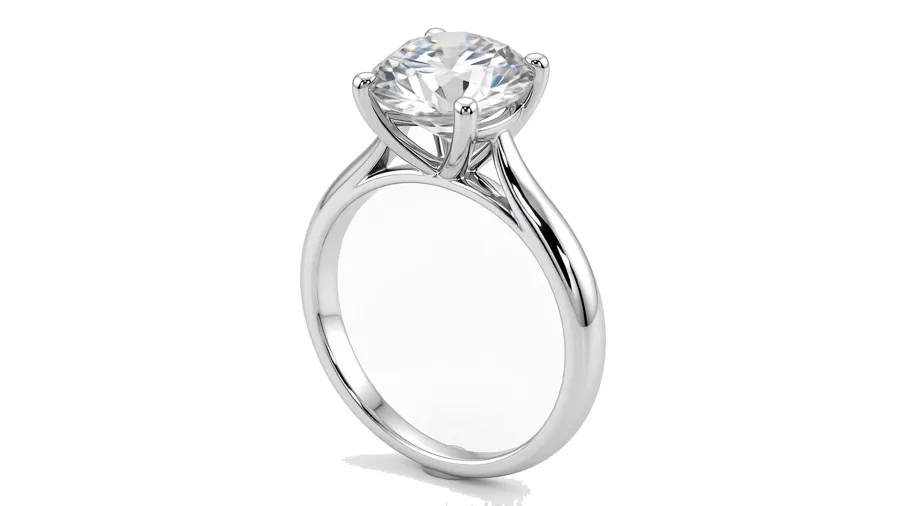
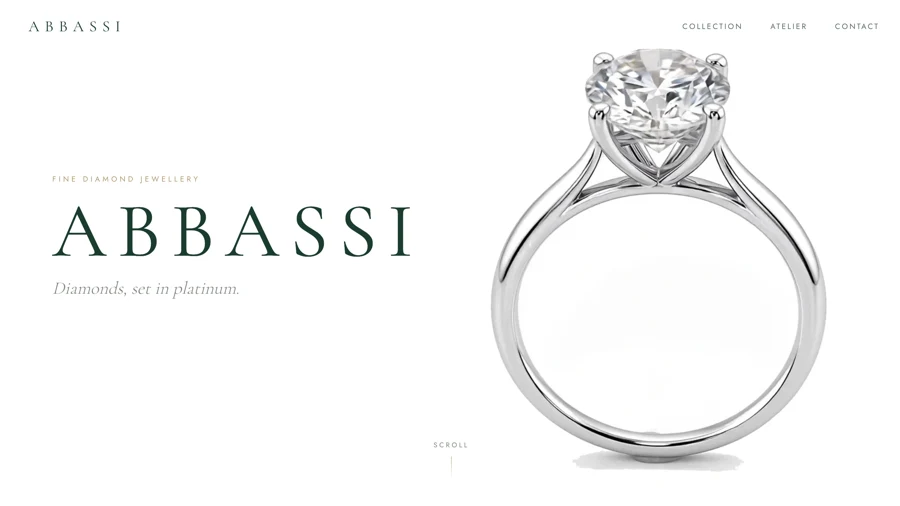
Add ABD demo + portfolio page; clickable cards; remove language switcher

diff --git a/public/portfolio/abd/index.html b/public/portfolio/abd/index.html
@@ -197,7 +197,7 @@ footer .fn{align-self:flex-end;color:#6a6a70;font-size:12px;letter-spacing:.1em}
 </section>
 
 <footer>
-  <div class="fb" style="transform:none"><img src="assets/abd_q2.png" alt="ABD Q2" style="height:210px;width:auto;display:block"></div>
+  <div class="fb" style="transform:none"><img src="assets/abd_q2_mark.png" alt="THR·Q2·M" style="height:130px;width:auto;display:block"></div>
   <div class="fes">«LAS MALAS VIBRAS <b>NO VAN</b> CON MI OUTFIT.»<br><span style="font-family:Archivo;font-style:normal;font-weight:700;font-size:12px;letter-spacing:.1em;color:#6a6a70">THR·Q2·M</span></div>
   <div class="fn" data-k="foot"></div>
 </footer>